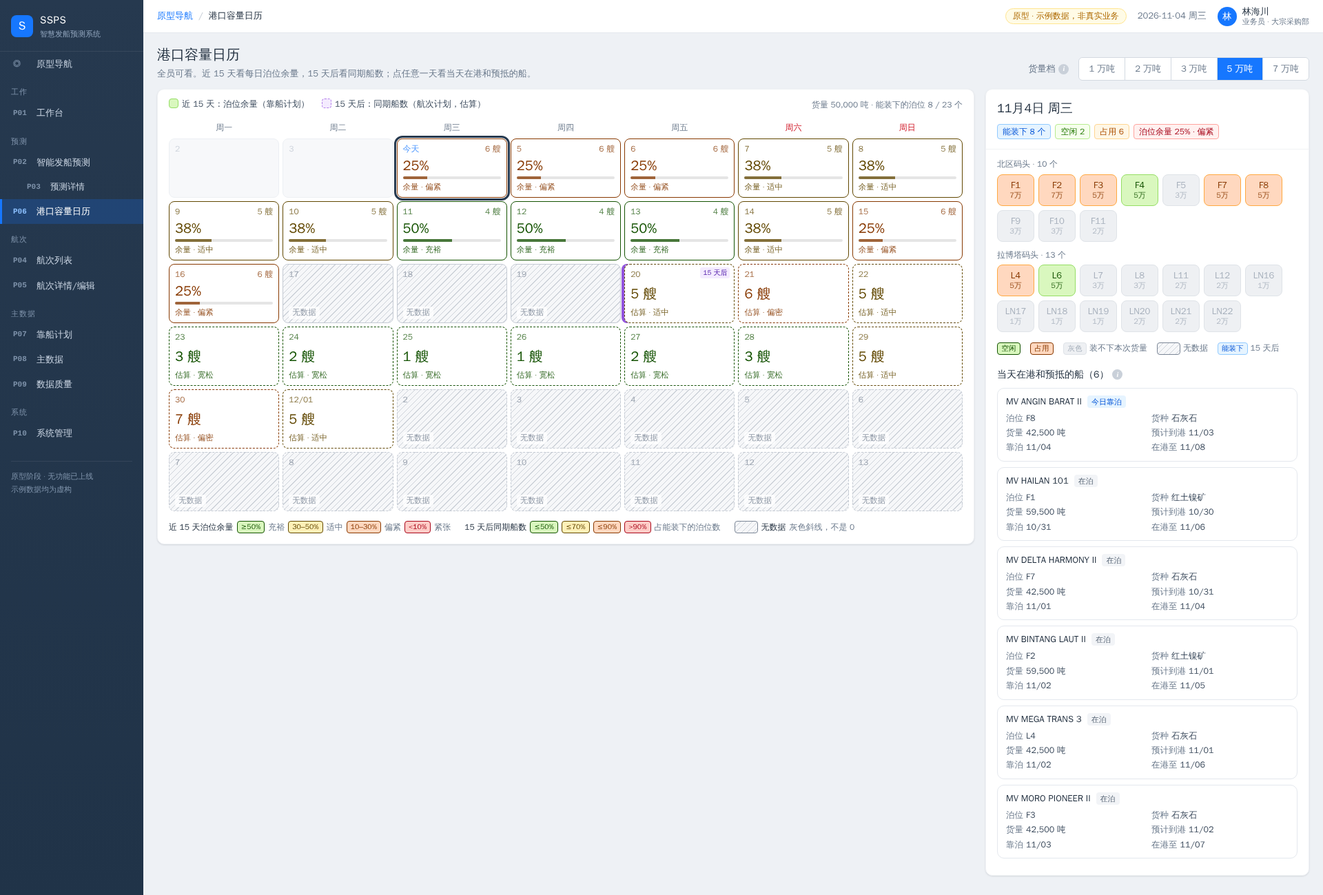
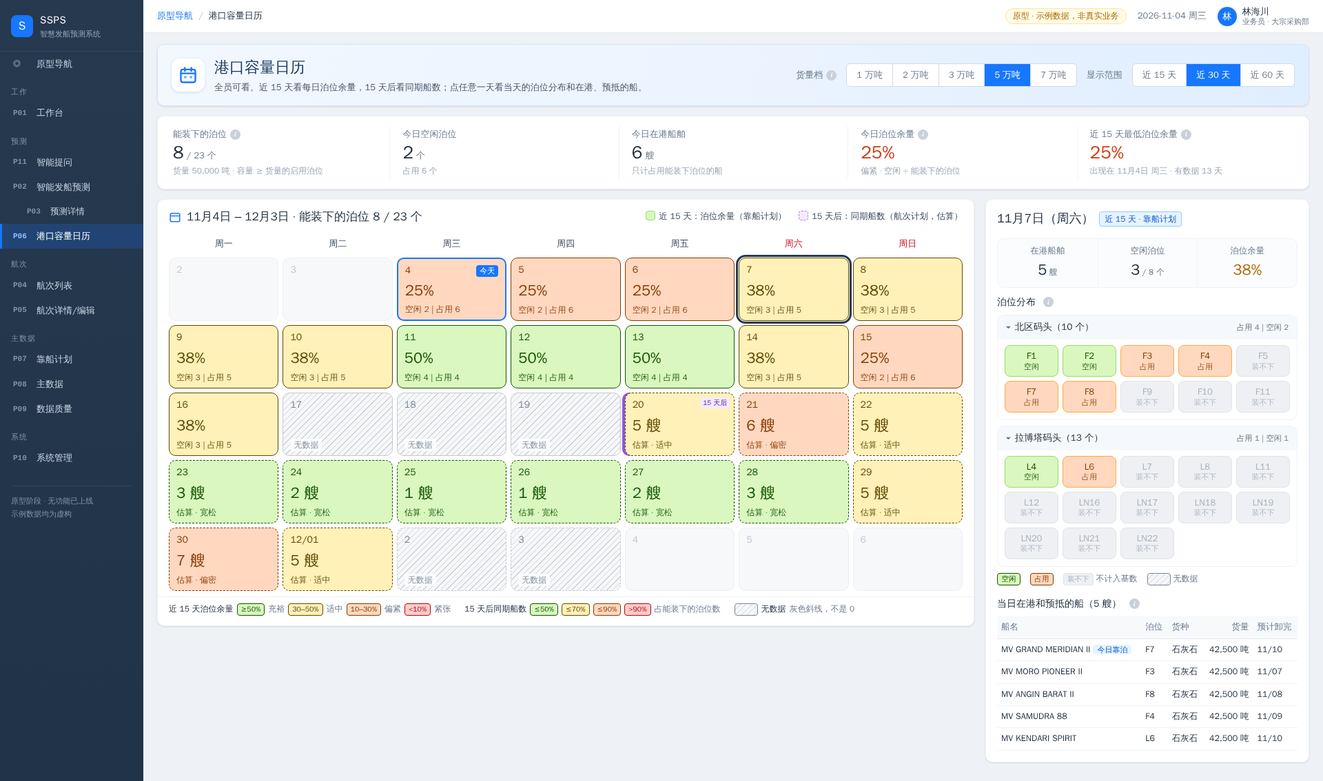
P06 港口容量日历参考效果图重排：指标条、显示范围、月历格子空闲/占用数、按码头折叠的泊位分布与当日船只表；与锁定规则冲突处按规则改
Claude-Session: https://claude.ai/code/session_01S7EgPzREeeBA8rsxhMLUP6

diff --git a/prototype/P06-capacity-calendar.html b/prototype/P06-capacity-calendar.html
@@ -6,43 +6,70 @@
 <title>P06 港口容量日历 · SSPS 原型</title>
 <link rel="stylesheet" href="assets/app.css">
 <style>
-.layout{display:grid;grid-template-columns:minmax(0,1fr) 470px;gap:16px;align-items:start}
-.side{position:sticky;top:64px}
+/* 2026-11-05 参考效果图重排；口径仍是锁定规则：只用泊位余量率（CMR），15 天后只看同期船数 */
+.nw{white-space:nowrap}
+.hero{display:flex;justify-content:space-between;align-items:center;gap:14px;flex-wrap:wrap;padding:16px 20px;margin-bottom:14px;background:linear-gradient(100deg,#f3f8ff 0%,#eaf3ff 55%,#dfeeff 100%);border:1px solid #d6e6fb}
+.hero .ht{display:flex;align-items:center;gap:14px;min-width:0}
+.hero .av{width:48px;height:48px;border-radius:12px;background:#fff;display:grid;place-items:center;box-shadow:0 1px 4px rgba(22,119,255,.18);flex:none}
+.hero h1{margin:0;font-size:22px;color:#17365d}
+.hero p{margin:2px 0 0;color:#4a596b}
 .ctl{display:flex;align-items:center;gap:14px;flex-wrap:wrap}
 .ctl .lab{color:var(--muted);font-size:13px;display:flex;align-items:center;white-space:nowrap}
 .seg button{white-space:nowrap;padding:6px 14px}
+/* 指标条 */
+.kpi{display:grid;grid-template-columns:repeat(5,minmax(0,1fr));margin-bottom:14px;padding:14px 4px}
+.kpi > div{padding:2px 18px;border-left:1px solid var(--line-2);min-width:0}
+.kpi > div:first-child{border-left:0}
+.kpi .k{color:var(--muted);font-size:13px;display:flex;align-items:center;white-space:nowrap}
+.kpi .v{font-size:26px;font-weight:700;line-height:1.3;white-space:nowrap}
+.kpi .v small{font-size:13px;font-weight:500;color:var(--muted);margin-left:4px}
+.kpi .n{font-size:12px;color:var(--faint);white-space:nowrap;overflow:hidden;text-overflow:ellipsis}
+.kpi .k1{color:#237804}.kpi .k2{color:#ad6800}.kpi .k3{color:#d4380d}.kpi .k4{color:#a8071a}
+.layout{display:grid;grid-template-columns:minmax(0,1fr) 470px;gap:16px;align-items:start}
+.side{position:sticky;top:64px}
+/* 日历 */
 .calh{display:flex;justify-content:space-between;align-items:center;gap:10px;flex-wrap:wrap;padding:12px 16px 8px}
+.calh h2{margin:0;font-size:17px;display:flex;align-items:center;gap:8px;white-space:nowrap}
 .phase{display:flex;flex-wrap:wrap;gap:6px 18px;font-size:12.5px;color:#3b4a5c}
 .phase i{display:inline-block;width:14px;height:14px;border-radius:4px;vertical-align:-2px;margin-right:5px;border:1px solid #95de64;background:var(--c1-bg)}
-.cal{display:grid;grid-template-columns:repeat(7,minmax(0,1fr));gap:5px;padding:4px 16px 8px}
-.wd{text-align:center;font-size:12px;color:var(--muted);padding:2px 0}.wd.we{color:#cf1322}
-.dc{position:relative;min-height:86px;border:1px solid;border-radius:8px;padding:5px 8px;display:flex;flex-direction:column;justify-content:space-between;cursor:pointer;background:#fff;text-align:left;white-space:nowrap;overflow:hidden}
-.dc .dt{font-size:12px;opacity:.75;display:flex;justify-content:space-between}
-.dc .dt b{font-weight:600}
-.dc .big{font-size:20px;font-weight:700;line-height:1.2}
-.dc .sm{font-size:11.5px;opacity:.85}
-.dc .bar{display:block;height:4px;border-radius:3px;background:rgba(0,0,0,.1);overflow:hidden;margin-top:3px}
-.dc .bar i{display:block;height:100%;background:currentColor;opacity:.75}
+.cal{display:grid;grid-template-columns:repeat(7,minmax(0,1fr));gap:6px;padding:4px 16px 8px}
+.wd{text-align:center;font-size:13px;color:#3b4a5c;font-weight:600;padding:4px 0}.wd.we{color:#cf1322}
+.dc{position:relative;min-height:92px;border:1px solid;border-radius:10px;padding:6px 10px;display:flex;flex-direction:column;justify-content:space-between;cursor:pointer;text-align:left;white-space:nowrap;overflow:hidden;font:inherit}
+.dc:not(.c1):not(.c2):not(.c3):not(.c4):not(.nd):not(.past):not(.out){background:#fff;color:inherit}
+.dc .dt{font-size:13px;display:flex;justify-content:space-between;align-items:center;gap:4px}
+.dc .dt b{font-weight:700;font-size:14px}
+.dc .dt .td{font-size:11px;font-weight:600;color:#fff;background:var(--primary);border-radius:4px;padding:0 5px}
+.dc .big{font-size:22px;font-weight:700;line-height:1.2}
+.dc .sm{font-size:12px;opacity:.9}
 .dc.far{border-style:dashed}
 .dc.nd{background:var(--stripe);border-color:#c4cad3;color:#7b8696}
 .dc.firstfar{box-shadow:-4px 0 0 #9254de}
-.dc.past{background:#f7f8fa;color:#c0c8d2;border-color:#eceff3;cursor:default}
-.dc.today .dt b{color:var(--primary)}
+.dc.past,.dc.out{background:#f7f8fa;color:#c0c8d2;border-color:#eceff3;cursor:default}
+.dc.today{border-width:2px;border-color:var(--primary)}
 .dc.sel{outline:3px solid #26394f;outline-offset:1px;z-index:2}
 .dc.nd .big{display:none}
 .dc.nd .sm{background:rgba(255,255,255,.85);border-radius:4px;padding:0 5px;align-self:flex-start}
-.mtag{position:absolute;right:6px;top:4px;font-size:10px;color:#531dab;background:#f4ebff;border-radius:3px;padding:0 4px}
-.legend{display:flex;flex-wrap:wrap;gap:6px 20px;padding:6px 16px 14px;font-size:12px;color:var(--muted);align-items:center}
+.mtag{position:absolute;right:6px;top:6px;font-size:10px;color:#531dab;background:#f4ebff;border-radius:3px;padding:0 4px}
+.legend{display:flex;flex-wrap:wrap;gap:6px 20px;padding:8px 16px 14px;font-size:12px;color:var(--muted);align-items:center;border-top:1px solid var(--line-2)}
 .legend .g{display:flex;align-items:center;gap:5px;white-space:nowrap}
 .sw{display:inline-block;min-width:34px;padding:0 5px;text-align:center;border:1px solid;border-radius:4px;font-size:10.5px;line-height:16px;white-space:nowrap}
 /* 右侧当日详情 */
-.dh{padding:14px 16px;border-bottom:1px solid var(--line-2)}
-.dh h2{margin:0;font-size:18px;white-space:nowrap}
-.dh .chips{display:flex;flex-wrap:wrap;gap:6px;margin-top:8px}
-.bm{padding:12px 16px 4px}
-.bm-t{font-size:12px;color:var(--muted);margin-bottom:5px;white-space:nowrap}
-.bm-r{display:flex;gap:6px;flex-wrap:wrap;margin-bottom:10px}
-.bt{width:54px;height:46px;border:1px solid;border-radius:8px;display:flex;flex-direction:column;align-items:center;justify-content:center;line-height:1.25;cursor:help;flex:none;white-space:nowrap}
+.dh{padding:14px 16px 4px}
+.dh h2{margin:0;font-size:18px;white-space:nowrap;display:flex;align-items:center;gap:8px}
+.st3{display:grid;grid-template-columns:repeat(3,minmax(0,1fr));margin:10px 16px 6px;border:1px solid var(--line-2);border-radius:10px;background:#fbfcfe}
+.st3 > div{padding:8px 12px;text-align:center;border-left:1px solid var(--line-2)}
+.st3 > div:first-child{border-left:0}
+.st3 .k{font-size:12.5px;color:var(--muted);white-space:nowrap}
+.st3 .v{font-size:22px;font-weight:700;white-space:nowrap}
+.st3 .v small{font-size:12px;font-weight:500;color:var(--muted);margin-left:3px}
+.sec{margin:10px 16px 0;font-weight:600;font-size:14px;display:flex;align-items:center;gap:6px}
+.tg{margin:8px 16px 0;border:1px solid var(--line-2);border-radius:10px;overflow:hidden}
+.tg-h{display:flex;align-items:center;gap:6px;padding:7px 12px;background:#f5f8fc;cursor:pointer;font-weight:600;font-size:13.5px;user-select:none}
+.tg-h .ar{color:#6b7a8c;transition:transform .15s}.tg.closed .ar{transform:rotate(-90deg)}
+.tg-h .sp{flex:1}.tg-h small{font-weight:400;color:var(--muted)}
+.tg.closed .bm-r{display:none}
+.bm-r{display:grid;grid-template-columns:repeat(5,minmax(0,1fr));gap:6px;padding:8px 10px 10px}
+.bt{height:46px;border:1px solid;border-radius:8px;display:flex;flex-direction:column;align-items:center;justify-content:center;line-height:1.25;cursor:help;white-space:nowrap}
 .bt b{font-size:13px}.bt small{font-size:11px;opacity:.85}
 .bt.free{background:var(--c1-bg);color:var(--c1-fg);border-color:var(--c1-bd)}
 .bt.occ{background:var(--c3-bg);color:var(--c3-fg);border-color:var(--c3-bd)}
@@ -50,30 +77,34 @@
 .bt.nd2{background:var(--stripe);color:#5b6878;border-color:#c4cad3}
 .bt.off{background:#eef0f3;color:#a7b0bc;border-color:#dfe3e8}
 .bt:hover{outline:2px solid var(--primary);z-index:2}
-.bl{display:flex;flex-wrap:wrap;gap:4px 14px;padding:0 16px 12px;font-size:12px;color:var(--muted)}
+.bl{display:flex;flex-wrap:wrap;gap:4px 14px;padding:8px 16px 4px;font-size:12px;color:var(--muted)}
 .bl .g{display:flex;align-items:center;gap:4px;white-space:nowrap}
 .ships{padding:0 16px 16px}
-.ships h3{margin:6px 0 8px;font-size:14px;display:flex;align-items:center}
-.sh{border:1px solid var(--line);border-radius:10px;padding:9px 12px;margin-bottom:8px}
-.sh .n{display:flex;align-items:center;gap:8px;font-weight:600;flex-wrap:wrap}
-.sh .n a{color:inherit;text-decoration:none}.sh .n a:hover{color:var(--primary);text-decoration:underline}
-.sh .t{font-size:11px;font-weight:500;border-radius:4px;padding:0 6px;line-height:18px}
-.t.arr{background:#e6f4ff;color:#0958d9}.t.in{background:#f2f4f7;color:#5b6878}
-.sh .kv{display:grid;grid-template-columns:repeat(2,minmax(0,1fr));gap:2px 12px;margin-top:5px;font-size:12.5px;color:#3b4a5c}
-.sh .kv span em{font-style:normal;color:var(--muted);margin-right:4px}
-.sh .kv span{white-space:nowrap;overflow:hidden;text-overflow:ellipsis}
-.none{padding:18px 4px;color:var(--muted)}
+table.stb{width:100%;border-collapse:collapse;font-size:12.5px;margin-top:8px}
+.stb th{text-align:left;color:var(--muted);font-weight:500;padding:6px 6px;border-bottom:1px solid var(--line);white-space:nowrap;background:#f7f9fb}
+.stb td{padding:6px 6px;border-bottom:1px solid var(--line-2);white-space:nowrap}
+.stb td.r,.stb th.r{text-align:right}
+.stb a{color:inherit;text-decoration:none}.stb a:hover{color:var(--primary);text-decoration:underline}
+.t{font-size:11px;font-weight:500;border-radius:4px;padding:0 6px;line-height:18px;margin-left:4px}
+.t.arr{background:#e6f4ff;color:#0958d9}
+.none{padding:14px 4px;color:var(--muted)}
 </style>
 </head>
 <body>
 <div class="app"><aside id="nav"></aside>
   <div class="main"><header id="topbar"></header>
     <main class="page">
-      <div class="ptitle"><div><h1>港口容量日历</h1><p>全员可看。近 15 天看每日泊位余量，15 天后看同期船数；点任意一天看当天在港和预抵的船。</p></div>
-        <div class="ctl"><span class="lab">货量档<span class="i" data-tip="按这个货量算「能装下的泊位」作为基数，默认 5 万吨。\n吨级档的划分还没有确认，原型先按泊位容量档位列出。">i</span></span><div class="seg" id="tons"></div></div></div>
+      <div class="card hero">
+        <div class="ht"><div class="av"><svg width="28" height="28" viewBox="0 0 24 24"><rect x="3" y="5" width="18" height="16" rx="2.5" fill="none" stroke="#1677ff" stroke-width="2"/><path d="M3 10h18M8 3v4M16 3v4" stroke="#1677ff" stroke-width="2" stroke-linecap="round"/><rect x="7" y="13" width="3" height="3" rx=".6" fill="#69b1ff"/><rect x="14" y="13" width="3" height="3" rx=".6" fill="#69b1ff"/></svg></div>
+          <div><h1>港口容量日历</h1><p>全员可看。近 15 天看每日泊位余量，15 天后看同期船数；点任意一天看当天的泊位分布和在港、预抵的船。</p></div></div>
+        <div class="ctl"><span class="lab">货量档<span class="i" data-tip="按这个货量算「能装下的泊位」作为基数，默认 5 万吨。\n吨级档的划分还没有确认，原型先按泊位容量档位列出。">i</span></span><div class="seg" id="tons"></div>
+          <span class="lab">显示范围</span><div class="seg" id="range"></div></div>
+      </div>
+      <section class="card kpi" id="kpi"></section>
       <div class="layout">
         <section class="card">
-          <div class="calh"><div class="phase"><span><i></i>近 15 天：泊位余量（靠船计划）</span><span><i style="border-style:dashed;border-color:#b37feb;background:#f4ebff"></i>15 天后：同期船数（航次计划，估算）</span></div><span class="muted nw" id="meta" style="font-size:12px"></span></div>
+          <div class="calh"><h2><svg width="18" height="18" viewBox="0 0 24 24"><rect x="3" y="5" width="18" height="16" rx="2.5" fill="none" stroke="#1677ff" stroke-width="2"/><path d="M3 10h18" stroke="#1677ff" stroke-width="2"/></svg><span id="rangeTitle"></span></h2>
+            <div class="phase"><span><i></i>近 15 天：泊位余量（靠船计划）</span><span><i style="border-style:dashed;border-color:#b37feb;background:#f4ebff"></i>15 天后：同期船数（航次计划，估算）</span></div></div>
           <div class="cal" id="cal"></div>
           <div class="legend" id="legend"></div>
         </section>
@@ -88,78 +119,116 @@
   SHELL.mount({ active: 'P06', title: '港口容量日历' });
   const M = window.MOCK, E = window.ENGINE, C = window.C, $ = (id) => document.getElementById(id);
   const TONS = [[10000, '1 万吨'], [20000, '2 万吨'], [30000, '3 万吨'], [50000, '5 万吨'], [70000, '7 万吨']];
-  let tons = 50000, sel = C.TODAY;
-  const fmt = C.fmt, pct = C.pct;
+  const RANGES = [[15, '近 15 天'], [30, '近 30 天'], [60, '近 60 天']];
+  let tons = 50000, sel = C.TODAY, range = 30;
+  const closed = {};
+  const fmt = C.fmt;
   const cmrCls = (v) => (v >= .5 ? 'c1' : v >= .3 ? 'c2' : v >= .1 ? 'c3' : 'c4');
   const cmrLab = (v) => (v >= .5 ? '充裕' : v >= .3 ? '适中' : v >= .1 ? '偏紧' : '紧张');
   const denCls = (c, n) => { const r = c / n; return r <= .5 ? 'c1' : r <= .7 ? 'c2' : r <= .9 ? 'c3' : 'c4'; };
   const denLab = (c, n) => { const r = c / n; return r <= .5 ? '宽松' : r <= .7 ? '适中' : r <= .9 ? '偏密' : '拥挤'; };
   const dstr = (n) => C.iso(n);
   const md = (n) => C.md(dstr(n)), mdCn = (n) => C.mdCn(dstr(n)), wk = (n) => C.wk(dstr(n));
+  const last = () => C.TODAY + range - 1;
 
-  // 42 天（6 周），周一开头
-  const dow0 = (new Date(C.TODAY * 86400000).getUTCDay() + 6) % 7, start = C.TODAY - dow0, N = 42;
   function dayInfo(d) {
     if (d < C.TODAY) return { state: 'past' };
+    if (d > last()) return { state: 'out' };
     const P = E.poolFor(tons), mode = E.modeOf(d);
     if (!P.n) return { state: 'nodata', mode };
-    const x = mode === 'cmr' ? E.dayDetail(d, tons) : E.dayDetail(d, tons);
+    const x = E.dayDetail(d, tons);
     return x.state === 'nodata' ? { state: 'nodata', mode } : Object.assign({ state: 'ok', mode, P }, x);
   }
+
+  // ---------- 顶部指标：全部按锁定口径（泊位余量率 / 同期船数），不用「占用率」「平均值」 ----------
+  function drawKpi() {
+    const P = E.poolFor(tons), t = E.dayDetail(C.TODAY, tons);
+    const near = []; for (let d = C.TODAY; d <= C.TODAY + E.PATH_LIMIT; d++) { const x = E.dayDetail(d, tons); if (x.state === 'ok' && x.mode === 'cmr') near.push(x); }
+    const mn = near.length ? near.reduce((a, b) => (b.cmr < a.cmr ? b : a)) : null;
+    const ok = t.state === 'ok';
+    const cell = (k, v, n, tip) => '<div><div class="k">' + k + (tip ? '<span class="i" data-tip="' + tip + '">i</span>' : '') + '</div><div class="v">' + v + '</div><div class="n">' + n + '</div></div>';
+    $('kpi').innerHTML =
+      cell('能装下的泊位', P.n + '<small>/ ' + M.berths.length + ' 个</small>', '货量 ' + fmt(tons) + ' 吨 · 容量 ≥ 货量的启用泊位', '泊位余量率的基数：只计容量不小于货量的启用泊位，随货量档变化。') +
+      cell('今日空闲泊位', ok ? (P.n - t.occ) + '<small>个</small>' : '—', ok ? '占用 ' + t.occ + ' 个' : '靠船计划暂无数据') +
+      cell('今日在港船舶', ok ? t.list.length + '<small>艘</small>' : '—', '只计占用能装下泊位的船') +
+      cell('今日泊位余量', ok ? '<span class="' + cmrCls(t.cmr).replace('c', 'k') + '">' + Math.round(t.cmr * 100) + '%</span>' : '—', ok ? cmrLab(t.cmr) + ' · 空闲 ÷ 能装下的泊位' : '无数据（不是 0%）', '唯一的容量口径：泊位余量率 = 空闲泊位 ÷ 能装下的泊位，越高越宽松。') +
+      cell('近 15 天最低泊位余量', mn ? '<span class="' + cmrCls(mn.cmr).replace('c', 'k') + '">' + Math.round(mn.cmr * 100) + '%</span>' : '—', mn ? '出现在 ' + mdCn(mn.d) + ' ' + wk(mn.d) + (near.length < E.PATH_LIMIT + 1 ? ' · 有数据 ' + near.length + ' 天' : '') : '无数据', '预测排序用的就是窗口内的最低泊位余量；这里看近 15 天里最紧的一天。');
+  }
+
   function drawCal() {
     const P = E.poolFor(tons);
-    $('meta').textContent = '货量 ' + fmt(tons) + ' 吨 · 能装下的泊位 ' + P.n + ' / ' + M.berths.length + ' 个';
+    $('rangeTitle').textContent = mdCn(C.TODAY) + ' – ' + mdCn(last()) + ' · 能装下的泊位 ' + P.n + ' / ' + M.berths.length + ' 个';
+    const dow0 = (new Date(C.TODAY * 86400000).getUTCDay() + 6) % 7, start = C.TODAY - dow0, weeks = Math.ceil((dow0 + range) / 7);
     let h = ['一', '二', '三', '四', '五', '六', '日'].map((x, i) => '<div class="wd' + (i > 4 ? ' we' : '') + '">周' + x + '</div>').join('');
     const firstFar = C.TODAY + E.PATH_LIMIT + 1;
-    for (let i = 0; i < N; i++) {
+    for (let i = 0; i < weeks * 7; i++) {
       const d = start + i, info = dayInfo(d), label = (new Date(d * 86400000).getUTCDate() === 1 ? md(d) : String(Number(dstr(d).slice(8))));
+      const head = (extra) => '<div class="dt"><b>' + label + '</b>' + (d === C.TODAY ? '<span class="td">今天</span>' : '') + (extra || '') + '</div>';
       let cls = 'dc', body = '';
-      if (info.state === 'past') { cls += ' past'; body = '<div class="dt"><b>' + label + '</b></div>'; }
+      if (info.state === 'past' || info.state === 'out') { cls += ' ' + info.state; body = head(); }
       else {
         const far = info.mode === 'density'; if (far) cls += ' far' + (d === firstFar ? ' firstfar' : '');
         if (d === C.TODAY) cls += ' today';
-        if (info.state !== 'ok') { cls += ' nd'; body = '<div class="dt"><b>' + (d === C.TODAY ? '今天' : label) + '</b></div><div class="big">—</div><span class="sm">无数据</span>'; }
-        else if (info.mode === 'cmr') { cls += ' ' + cmrCls(info.cmr); body = '<div class="dt"><b>' + (d === C.TODAY ? '今天' : label) + '</b><span>' + info.list.length + ' 艘</span></div><div><div class="big">' + Math.round(info.cmr * 100) + '%</div><span class="bar"><i style="width:' + info.cmr * 100 + '%"></i></span></div><span class="sm">余量 · ' + cmrLab(info.cmr) + '</span>'; }
-        else { cls += ' ' + denCls(info.count, info.P.n); body = '<div class="dt"><b>' + label + '</b></div><div class="big">' + info.count + ' 艘</div><span class="sm">估算 · ' + denLab(info.count, info.P.n) + '</span>'; }
+        if (info.state !== 'ok') { cls += ' nd'; body = head() + '<div class="big">—</div><span class="sm">无数据</span>'; }
+        else if (info.mode === 'cmr') { cls += ' ' + cmrCls(info.cmr); body = head() + '<div class="big">' + Math.round(info.cmr * 100) + '%</div><span class="sm">空闲 ' + (info.P.n - info.occ) + ' | 占用 ' + info.occ + '</span>'; }
+        else { cls += ' ' + denCls(info.count, info.P.n); body = head() + '<div class="big">' + info.count + ' 艘</div><span class="sm">估算 · ' + denLab(info.count, info.P.n) + '</span>'; }
       }
       if (d === sel) cls += ' sel';
-      h += '<button class="' + cls + '" data-d="' + d + '"' + (info.state === 'past' ? ' disabled' : '') + '>' + body + (d === firstFar ? '<span class="mtag">15 天后</span>' : '') + '</button>';
+      const dis = info.state === 'past' || info.state === 'out';
+      h += '<button class="' + cls + '" data-d="' + d + '"' + (dis ? ' disabled' : '') + '>' + body + (d === firstFar && !dis ? '<span class="mtag">15 天后</span>' : '') + '</button>';
     }
     $('cal').innerHTML = h;
-    $('cal').querySelectorAll('.dc:not(.past)').forEach((b) => b.onclick = () => { sel = +b.dataset.d; drawCal(); drawSide(); });
+    $('cal').querySelectorAll('.dc:not(.past):not(.out)').forEach((b) => b.onclick = () => { sel = +b.dataset.d; drawCal(); drawSide(); });
     $('legend').innerHTML = '<div class="g"><b style="color:var(--text)">近 15 天泊位余量</b><span class="sw c1">≥50%</span>充裕<span class="sw c2">30–50%</span>适中<span class="sw c3">10–30%</span>偏紧<span class="sw c4">&lt;10%</span>紧张</div>' +
       '<div class="g"><b style="color:var(--text)">15 天后同期船数</b><span class="sw c1">≤50%</span><span class="sw c2">≤70%</span><span class="sw c3">≤90%</span><span class="sw c4">&gt;90%</span>占能装下的泊位数</div>' +
       '<div class="g"><span class="sw nd">&nbsp;&nbsp;</span><b style="color:var(--text)">无数据</b>灰色斜线，不是 0</div>';
   }
+
   function drawSide() {
     const d = sel, det = E.dayDetail(d, tons), P = E.poolFor(tons), le = E.modeOf(d) === 'cmr', nodata = det.state === 'nodata';
     const items = M.berths.map((b) => {
       const capable = tons > 0 && b.capacity >= tons;
       const row = le && !nodata ? E.rows.find((r) => r.inPool && r.berth === b.code && r.s <= d && d <= r.e) : null;
       const state = !capable ? 'off' : !le ? 'cap' : nodata ? 'nd2' : row ? 'occ' : 'free';
-      const L = ['<b>' + b.code + ' · ' + b.terminal + '</b>', '容量 ' + (b.capacity / 10000) + ' 万吨 · ' + b.category + ' · ' + b.status, '依据：' + b.basis + (b.note ? '（' + b.note + '）' : ''), '货量 ' + fmt(tons) + ' 吨：' + (capable ? '能装下，计入基数' : '装不下，不计入基数')];
-      if (!le) L.push(mdCn(d) + '：15 天后没有逐泊位数据'); else if (nodata) L.push(mdCn(d) + '：靠船计划暂无数据'); else if (row) L.push(mdCn(d) + ' 占用：' + row.vessel, row.cargo + ' ' + fmt(row.tons) + ' 吨', '预计靠泊 ' + C.md(C.iso(row.s)) + ' · 在港至 ' + C.md(C.iso(row.e))); else L.push(mdCn(d) + '：空闲');
+      const L = [b.code + ' · ' + b.terminal, '容量 ' + (b.capacity / 10000) + ' 万吨 · ' + b.category + ' · ' + b.status, '依据：' + b.basis + (b.note ? '（' + b.note + '）' : ''), '货量 ' + fmt(tons) + ' 吨：' + (capable ? '能装下，计入余量基数' : '装不下，不计入余量基数')];
+      if (!le) L.push(mdCn(d) + '：15 天后没有逐泊位数据'); else if (nodata) L.push(mdCn(d) + '：靠船计划暂无数据'); else if (row) L.push(mdCn(d) + ' 占用：' + row.vessel, row.cargo + ' ' + fmt(row.tons) + ' 吨', '预计靠泊 ' + md(row.s) + ' · 在港至 ' + md(row.e)); else L.push(mdCn(d) + '：空闲');
       return { b, state, tip: L.join('\n') };
     });
-    const cnt = (s) => items.filter((x) => x.state === s).length, n = items.filter((x) => x.state !== 'off').length;
-    const chips = nodata ? '<span class="tag blue">能装下 ' + n + ' 个</span><span class="tag nodata">暂无数据</span>' : !le ? '<span class="tag blue">能装下 ' + n + ' 个</span><span class="tag" style="background:#f9f0ff;color:#531dab;border-color:#d3adf7">同期 ' + det.count + ' 艘 · ' + denLab(det.count, P.n) + '</span>' :
-      '<span class="tag blue">能装下 ' + n + ' 个</span><span class="tag green">空闲 ' + cnt('free') + '</span><span class="tag amber">占用 ' + cnt('occ') + '</span><span class="tag ' + (det.cmr >= .5 ? 'green' : det.cmr >= .3 ? 'amber' : 'red') + '">泊位余量 ' + pct(det.cmr) + ' · ' + cmrLab(det.cmr) + '</span>';
-    const grp = (name) => '<div class="bm-t">' + name + ' · ' + items.filter((x) => x.b.terminal === name).length + ' 个</div><div class="bm-r">' + items.filter((x) => x.b.terminal === name).map((x) => '<div class="bt ' + x.state + '" data-tip="' + C.esc(x.tip) + '"><b>' + x.b.code + '</b><small>' + (x.b.capacity / 10000) + '万</small></div>').join('') + '</div>';
+    const label = { free: '空闲', occ: '占用', off: '装不下', cap: '能装下', nd2: '无数据' };
+    const grp = (name) => { const g = items.filter((x) => x.b.terminal === name), c = (s) => g.filter((x) => x.state === s).length;
+      const sum = !le ? '能装下 ' + (g.length - c('off')) : nodata ? '无数据' : '占用 ' + c('occ') + ' | 空闲 ' + c('free');
+      return '<div class="tg' + (closed[name] ? ' closed' : '') + '"><div class="tg-h" data-t="' + name + '"><span class="ar">▾</span>' + name + '（' + g.length + ' 个）<span class="sp"></span><small>' + sum + '</small></div>' +
+        '<div class="bm-r">' + g.map((x) => '<div class="bt ' + x.state + '" data-tip="' + C.esc(x.tip) + '"><b>' + x.b.code + '</b><small>' + label[x.state] + '</small></div>').join('') + '</div></div>'; };
+    const n = items.filter((x) => x.state !== 'off').length, free = items.filter((x) => x.state === 'free').length;
+    const st3 = le
+      ? '<div><div class="k">在港船舶</div><div class="v">' + (nodata ? '—' : det.list.length) + '<small>艘</small></div></div><div><div class="k">空闲泊位</div><div class="v">' + (nodata ? '—' : free) + '<small>/ ' + n + ' 个</small></div></div>' +
+        '<div><div class="k">泊位余量</div><div class="v">' + (nodata ? '<span style="color:var(--muted)">无数据</span>' : '<span style="color:' + (det.cmr >= .5 ? '#237804' : det.cmr >= .3 ? '#ad6800' : det.cmr >= .1 ? '#d4380d' : '#a8071a') + '">' + Math.round(det.cmr * 100) + '%</span>') + '</div></div>'
+      : '<div><div class="k">同期船数</div><div class="v">' + (nodata ? '—' : det.count) + '<small>艘</small></div></div><div><div class="k">能装下的泊位</div><div class="v">' + n + '<small>个</small></div></div>' +
+        '<div><div class="k">拥挤程度</div><div class="v" style="font-size:18px">' + (nodata ? '无数据' : denLab(det.count, P.n)) + '</div></div>';
     const link = (name, berth) => { const r = E.rows.find((q) => q.vessel === name && q.berth === berth); return r && r.matchVoyage ? '<a href="P05-voyage-detail.html?id=' + r.matchVoyage + '" data-tip="查看这条航次">' + name + '</a>' : name; };
     let list;
     if (nodata) list = '<div class="none">这一天还没有数据（灰色斜线，不是 0 艘）。' + (le ? '靠船计划目前只到 ' + md(E.planCoverTo) + '。' : '航次计划目前只到 ' + md(E.voyHorizon) + '。') + '</div>';
     else if (!det.list.length) list = '<div class="none">这一天没有占用同吨级泊位的船。</div>';
-    else if (le) list = det.list.map((s) => '<div class="sh"><div class="n">' + link(s.vessel, s.berth) + '<span class="t ' + (s.arriving || s.berthing ? 'arr' : 'in') + '">' + (s.arriving ? '今日预抵' : s.berthing ? '今日靠泊' : '在泊') + '</span></div><div class="kv"><span><em>泊位</em>' + s.berth + '</span><span><em>货种</em>' + s.cargo + '</span><span><em>货量</em>' + fmt(s.tons) + ' 吨</span><span><em>预计到港</em>' + md(s.eta) + '</span><span><em>靠泊</em>' + md(s.start) + '</span><span><em>在港至</em>' + md(s.end) + '</span></div></div>').join('');
-    else list = det.list.map((s) => '<div class="sh"><div class="n"><a href="P05-voyage-detail.html?id=' + s.id + '">' + (s.vessel || '待宣船') + '</a><span class="t ' + (s.arriving ? 'arr' : 'in') + '">' + (s.arriving ? '计划到达' : '窗口内') + '</span></div><div class="kv"><span><em>航线</em>' + C.zh(s.load) + ' → ' + C.zh(s.disch) + '</span><span><em>状态</em>' + s.status + '</span><span><em>货量</em>' + fmt(s.tons) + ' 吨</span><span><em>' + (s.side === '装' ? '受载期' : '计划到港') + '</em>' + md(s.start) + ' – ' + md(s.end) + '</span></div></div>').join('');
-    $('side').innerHTML = '<div class="dh"><h2>' + mdCn(d) + ' ' + wk(d) + '</h2><div class="chips">' + chips + '</div></div>' +
-      '<div class="bm">' + grp('北区码头') + grp('拉博塔码头') + '</div>' +
-      '<div class="bl"><span class="g"><span class="sw c1">空闲</span></span><span class="g"><span class="sw c3">占用</span></span><span class="g"><span class="sw" style="background:#eef0f3;color:#a7b0bc;border-color:#dfe3e8">灰色</span>装不下本次货量</span><span class="g"><span class="sw nd">&nbsp;</span>无数据</span><span class="g"><span class="sw" style="background:#e6f4ff;color:#0958d9;border-color:#91caff">能装下</span>15 天后</span></div>' +
-      '<div class="ships"><h3>' + (le ? '当天在港和预抵的船' : '当天同期的船') + '（' + (nodata ? 0 : det.list.length) + '）<span class="i" data-tip="只列出会占用同吨级泊位的船。">i</span></h3>' + list + '</div>';
+    else if (le) list = '<table class="stb"><thead><tr><th>船名</th><th>泊位</th><th>货种</th><th class="r">货量</th><th>预计卸完</th></tr></thead><tbody>' +
+      det.list.map((s) => '<tr><td>' + link(s.vessel, s.berth) + (s.arriving ? '<span class="t arr">今日预抵</span>' : s.berthing ? '<span class="t arr">今日靠泊</span>' : '') + '</td><td>' + s.berth + '</td><td>' + s.cargo + '</td><td class="r">' + fmt(s.tons) + ' 吨</td><td>' + md(s.end) + '</td></tr>').join('') + '</tbody></table>';
+    else list = '<table class="stb"><thead><tr><th>船名</th><th>航线</th><th class="r">货量</th><th>计划窗口</th></tr></thead><tbody>' +
+      det.list.map((s) => '<tr><td><a href="P05-voyage-detail.html?id=' + s.id + '">' + (s.vessel || '待宣船') + '</a>' + (s.arriving ? '<span class="t arr">计划到达</span>' : '') + '</td><td>' + C.zh(s.load) + ' → ' + C.zh(s.disch) + '</td><td class="r">' + fmt(s.tons) + ' 吨</td><td>' + md(s.start) + ' – ' + md(s.end) + '</td></tr>').join('') + '</tbody></table>';
+    $('side').innerHTML = '<div class="dh"><h2>' + mdCn(d) + '（' + wk(d) + '）' + (le ? '<span class="tag blue">近 15 天 · 靠船计划</span>' : '<span class="tag" style="background:#f9f0ff;color:#531dab;border-color:#d3adf7">15 天后 · 航次计划</span>') + '</h2></div>' +
+      '<div class="st3">' + st3 + '</div>' +
+      '<div class="sec">泊位分布<span class="i" data-tip="23 个德信泊位。货量档 ' + fmt(tons) + ' 吨：灰色表示装不下，不计入余量基数。' + (le ? '' : '\n15 天后没有逐泊位数据，只判断能否装下。') + '">i</span></div>' + grp('北区码头') + grp('拉博塔码头') +
+      '<div class="bl"><span class="g"><span class="sw c1">空闲</span></span><span class="g"><span class="sw c3">占用</span></span><span class="g"><span class="sw" style="background:#eef0f3;color:#a7b0bc;border-color:#dfe3e8">装不下</span>不计入基数</span><span class="g"><span class="sw nd">&nbsp;&nbsp;</span>无数据</span></div>' +
+      '<div class="ships"><div class="sec" style="margin:12px 0 0">' + (le ? '当日在港和预抵的船' : '当日同期的船') + '（' + (nodata ? 0 : det.list.length) + ' 艘）<span class="i" data-tip="只列出会占用同吨级泊位的船。">i</span></div>' + list + '</div>';
+    $('side').querySelectorAll('.tg-h').forEach((h) => h.onclick = () => { closed[h.dataset.t] = !closed[h.dataset.t]; h.parentNode.classList.toggle('closed', closed[h.dataset.t]); });
   }
-  $('tons').innerHTML = TONS.map((t) => '<button data-t="' + t[0] + '" class="' + (t[0] === tons ? 'on' : '') + '">' + t[1] + '</button>').join('');
-  $('tons').querySelectorAll('button').forEach((b) => b.onclick = () => { tons = +b.dataset.t; $('tons').querySelectorAll('button').forEach((x) => x.classList.toggle('on', x === b)); drawCal(); drawSide(); });
-  drawCal(); drawSide();
-  window.__P06 = { pick(d, t) { if (t) { tons = t; } sel = C.dayNum(d); $('tons').querySelectorAll('button').forEach((x) => x.classList.toggle('on', +x.dataset.t === tons)); drawCal(); drawSide(); } };
+  const segs = () => {
+    $('tons').innerHTML = TONS.map((t) => '<button data-t="' + t[0] + '" class="' + (t[0] === tons ? 'on' : '') + '">' + t[1] + '</button>').join('');
+    $('range').innerHTML = RANGES.map((r) => '<button data-r="' + r[0] + '" class="' + (r[0] === range ? 'on' : '') + '">' + r[1] + '</button>').join('');
+    $('tons').querySelectorAll('button').forEach((b) => b.onclick = () => { tons = +b.dataset.t; all(); });
+    $('range').querySelectorAll('button').forEach((b) => b.onclick = () => { range = +b.dataset.r; if (sel > last()) sel = C.TODAY; all(); });
+  };
+  const all = () => { segs(); drawKpi(); drawCal(); drawSide(); };
+  all();
+  window.__P06 = { pick(d, t) { if (t) { tons = t; } sel = C.dayNum(d); if (sel > last()) range = 60; all(); } };
 })();
 </script>
 </body>

diff --git a/docs/review/review-pack-1-spec.md b/docs/review/review-pack-1-spec.md
@@ -1900,6 +1900,7 @@ D01–D10 及 D11–D12 见 `docs/schema/D-app-db.md`。库存断料纳入一期
 - [ ] **P07「是否德信」怎么推导**：T10 已删除这个字段（原始文件没有），但 P07 页面保留「是否德信」列和「只看德信船」筛选（Leyinet 2026-11-05 要求），改为显示时按「从属单位」推导，只用于显示和筛选，不影响泊位余量。真实的从属单位有 130 多种写法，原型暂按「含『德信』」判断。请给出算作德信的写法清单（如 德信DSI、德天DCI 是否算）。
 - [x] **P11 按效果图重构**（2026-11-05）：采纳了四阶段流程（输入需求 → 智能解析 → 库存测算 → 生成方案）、可编辑的解析结果、六张指标卡、库存趋势 / 库存明细切换和 7 / 15 / 30 天显示范围、右侧「按物料 / 按风险」分组。计算全部沿用原引擎。效果图里这几项没有做，因为需要新功能或数据、规格里没有：方案对比、保存方案、导出报告、加入跟踪（需要新的存储表）；右侧「按工序」（库存表没有工序字段）；「库存模型设置」（缓冲天数已在页面里可调，15 / 25 天分档沿用德龙版）；顶部通知铃铛。效果图里的「缺料日」统一叫「断料日」。如需其中某项，确认后再进规格。
 - [x] **P02 方案卡片在库存模拟图上面**（2026-11-05 Leyinet）：已调整顺序。
+- [x] **P06 参考效果图重排**（2026-11-05）：标题卡片（货量档、显示范围 15 / 30 / 60 天）、五项指标条、月历格子（近 15 天显示泊位余量和空闲 / 占用数，15 天后显示同期船数）、右侧当日详情（三项小结、按码头折叠的泊位分布、当日船只表）。效果图里与锁定规则冲突的地方已按规则改：「占用率」及其色阶改为泊位余量率（规则 1）；「近 15 天平均占用率」改为「近 15 天最低泊位余量」（规则 1、7，不用平均值）；「泊位总数 23」改为按货量档的「能装下的泊位」（规则 3）；15 天后的格子不显示空闲 / 占用数，因为没有逐泊位数据（规则 4）；「航线筛选」去掉（港口容量与航线无关），由「货量档」代替；「推荐靠泊日」标记不放在日历页（日历不做预测，推荐在 P02）；顶部通知铃铛不做。
 - [x] **P04 按新风格重新排版**（2026-11-05）：顶部标题卡片（导出 Excel、新建航次）、四张状态指标卡（当前页签航次、航行中、在港、已结束，点击即按状态筛选，只是快捷筛选）、筛选条件卡、航次明细卡；筛选、排序、分页和导出规则不变，手机仍为卡片列表。
 - [x] **P01 按新风格重新排版**（2026-11-05）：顶部欢迎卡片（智能提问、全部航次）、四张带图标的指标卡、四个待办面板改成卡片式列表；待办的统计规则和数量不变，手机宽度单列显示。
 - [x] **P03 按 P02 新风格重新排版**（2026-11-05）：顶部「预测详情」卡片列出本次预测条件（只读）和推荐 / 备选切换；「方案结论」卡片按方案着色；有物料时新增「库存保障与趋势」卡片（与 P02 同款，只标当前方案）；S1 数据依据各步骤改成独立小卡片，库存步骤只保留数字来源表，曲线移到上方卡片；泊位视图和宣船文案不变。计算不变。

diff --git a/docs/open-questions.md b/docs/open-questions.md
@@ -98,6 +98,7 @@
 - [ ] **P07「是否德信」怎么推导**：T10 已删除这个字段（原始文件没有），但 P07 页面保留「是否德信」列和「只看德信船」筛选（Leyinet 2026-11-05 要求），改为显示时按「从属单位」推导，只用于显示和筛选，不影响泊位余量。真实的从属单位有 130 多种写法，原型暂按「含『德信』」判断。请给出算作德信的写法清单（如 德信DSI、德天DCI 是否算）。
 - [x] **P11 按效果图重构**（2026-11-05）：采纳了四阶段流程（输入需求 → 智能解析 → 库存测算 → 生成方案）、可编辑的解析结果、六张指标卡、库存趋势 / 库存明细切换和 7 / 15 / 30 天显示范围、右侧「按物料 / 按风险」分组。计算全部沿用原引擎。效果图里这几项没有做，因为需要新功能或数据、规格里没有：方案对比、保存方案、导出报告、加入跟踪（需要新的存储表）；右侧「按工序」（库存表没有工序字段）；「库存模型设置」（缓冲天数已在页面里可调，15 / 25 天分档沿用德龙版）；顶部通知铃铛。效果图里的「缺料日」统一叫「断料日」。如需其中某项，确认后再进规格。
 - [x] **P02 方案卡片在库存模拟图上面**（2026-11-05 Leyinet）：已调整顺序。
+- [x] **P06 参考效果图重排**（2026-11-05）：标题卡片（货量档、显示范围 15 / 30 / 60 天）、五项指标条、月历格子（近 15 天显示泊位余量和空闲 / 占用数，15 天后显示同期船数）、右侧当日详情（三项小结、按码头折叠的泊位分布、当日船只表）。效果图里与锁定规则冲突的地方已按规则改：「占用率」及其色阶改为泊位余量率（规则 1）；「近 15 天平均占用率」改为「近 15 天最低泊位余量」（规则 1、7，不用平均值）；「泊位总数 23」改为按货量档的「能装下的泊位」（规则 3）；15 天后的格子不显示空闲 / 占用数，因为没有逐泊位数据（规则 4）；「航线筛选」去掉（港口容量与航线无关），由「货量档」代替；「推荐靠泊日」标记不放在日历页（日历不做预测，推荐在 P02）；顶部通知铃铛不做。
 - [x] **P04 按新风格重新排版**（2026-11-05）：顶部标题卡片（导出 Excel、新建航次）、四张状态指标卡（当前页签航次、航行中、在港、已结束，点击即按状态筛选，只是快捷筛选）、筛选条件卡、航次明细卡；筛选、排序、分页和导出规则不变，手机仍为卡片列表。
 - [x] **P01 按新风格重新排版**（2026-11-05）：顶部欢迎卡片（智能提问、全部航次）、四张带图标的指标卡、四个待办面板改成卡片式列表；待办的统计规则和数量不变，手机宽度单列显示。
 - [x] **P03 按 P02 新风格重新排版**（2026-11-05）：顶部「预测详情」卡片列出本次预测条件（只读）和推荐 / 备选切换；「方案结论」卡片按方案着色；有物料时新增「库存保障与趋势」卡片（与 P02 同款，只标当前方案）；S1 数据依据各步骤改成独立小卡片，库存步骤只保留数字来源表，曲线移到上方卡片；泊位视图和宣船文案不变。计算不变。
